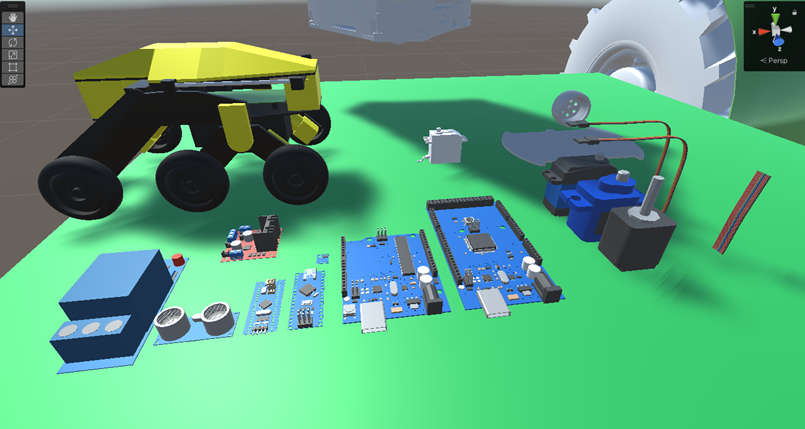
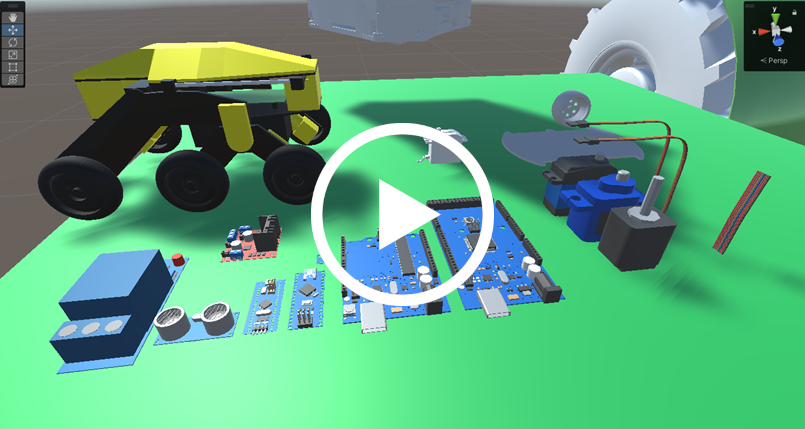
The title images of the video have been replaced

Changed region(s): [[0.3727, 0.2727, 0.6211, 0.7273], [0.4658, 0.4242, 0.559, 0.5758]]

diff --git a/index.html b/index.html
@@ -94,10 +94,10 @@
             <p class="about_rsma_p">Кроме того, использование данного пакета ускоряет процесс разработки, так как моделирование робота позволяет предсказать взаимодействие всех его частей и компонентов, что помогает избежать ошибок и ускоряет процесс создания рабочего прототипа.</p>
             <div class="about_rsma_container_media">
                 <a class="about_rsma_media" onclick="openVideo(1)">
-                    <img alt="video 1" src="images/anm9360.jpg" class="about_rsma_img">
+                    <img alt="video 1" src="images/Video1.png" class="about_rsma_img">
                 </a>
                 <a class="about_rsma_media" onclick="openVideo(2)">
-                    <img alt="video 2" src="images/Ruby-Hoshino-Laptop-Wallpaper-scaled.jpg" class="about_rsma_img">
+                    <img alt="video 2" src="images/Video2.png" class="about_rsma_img">
                 </a>
             <div class="container_video" id="container_video1">
                 <button class="cross" onclick="closeVideo(1)"><img alt="X" src="images/cross_mr3w4khsljuu.svg"></button>                
